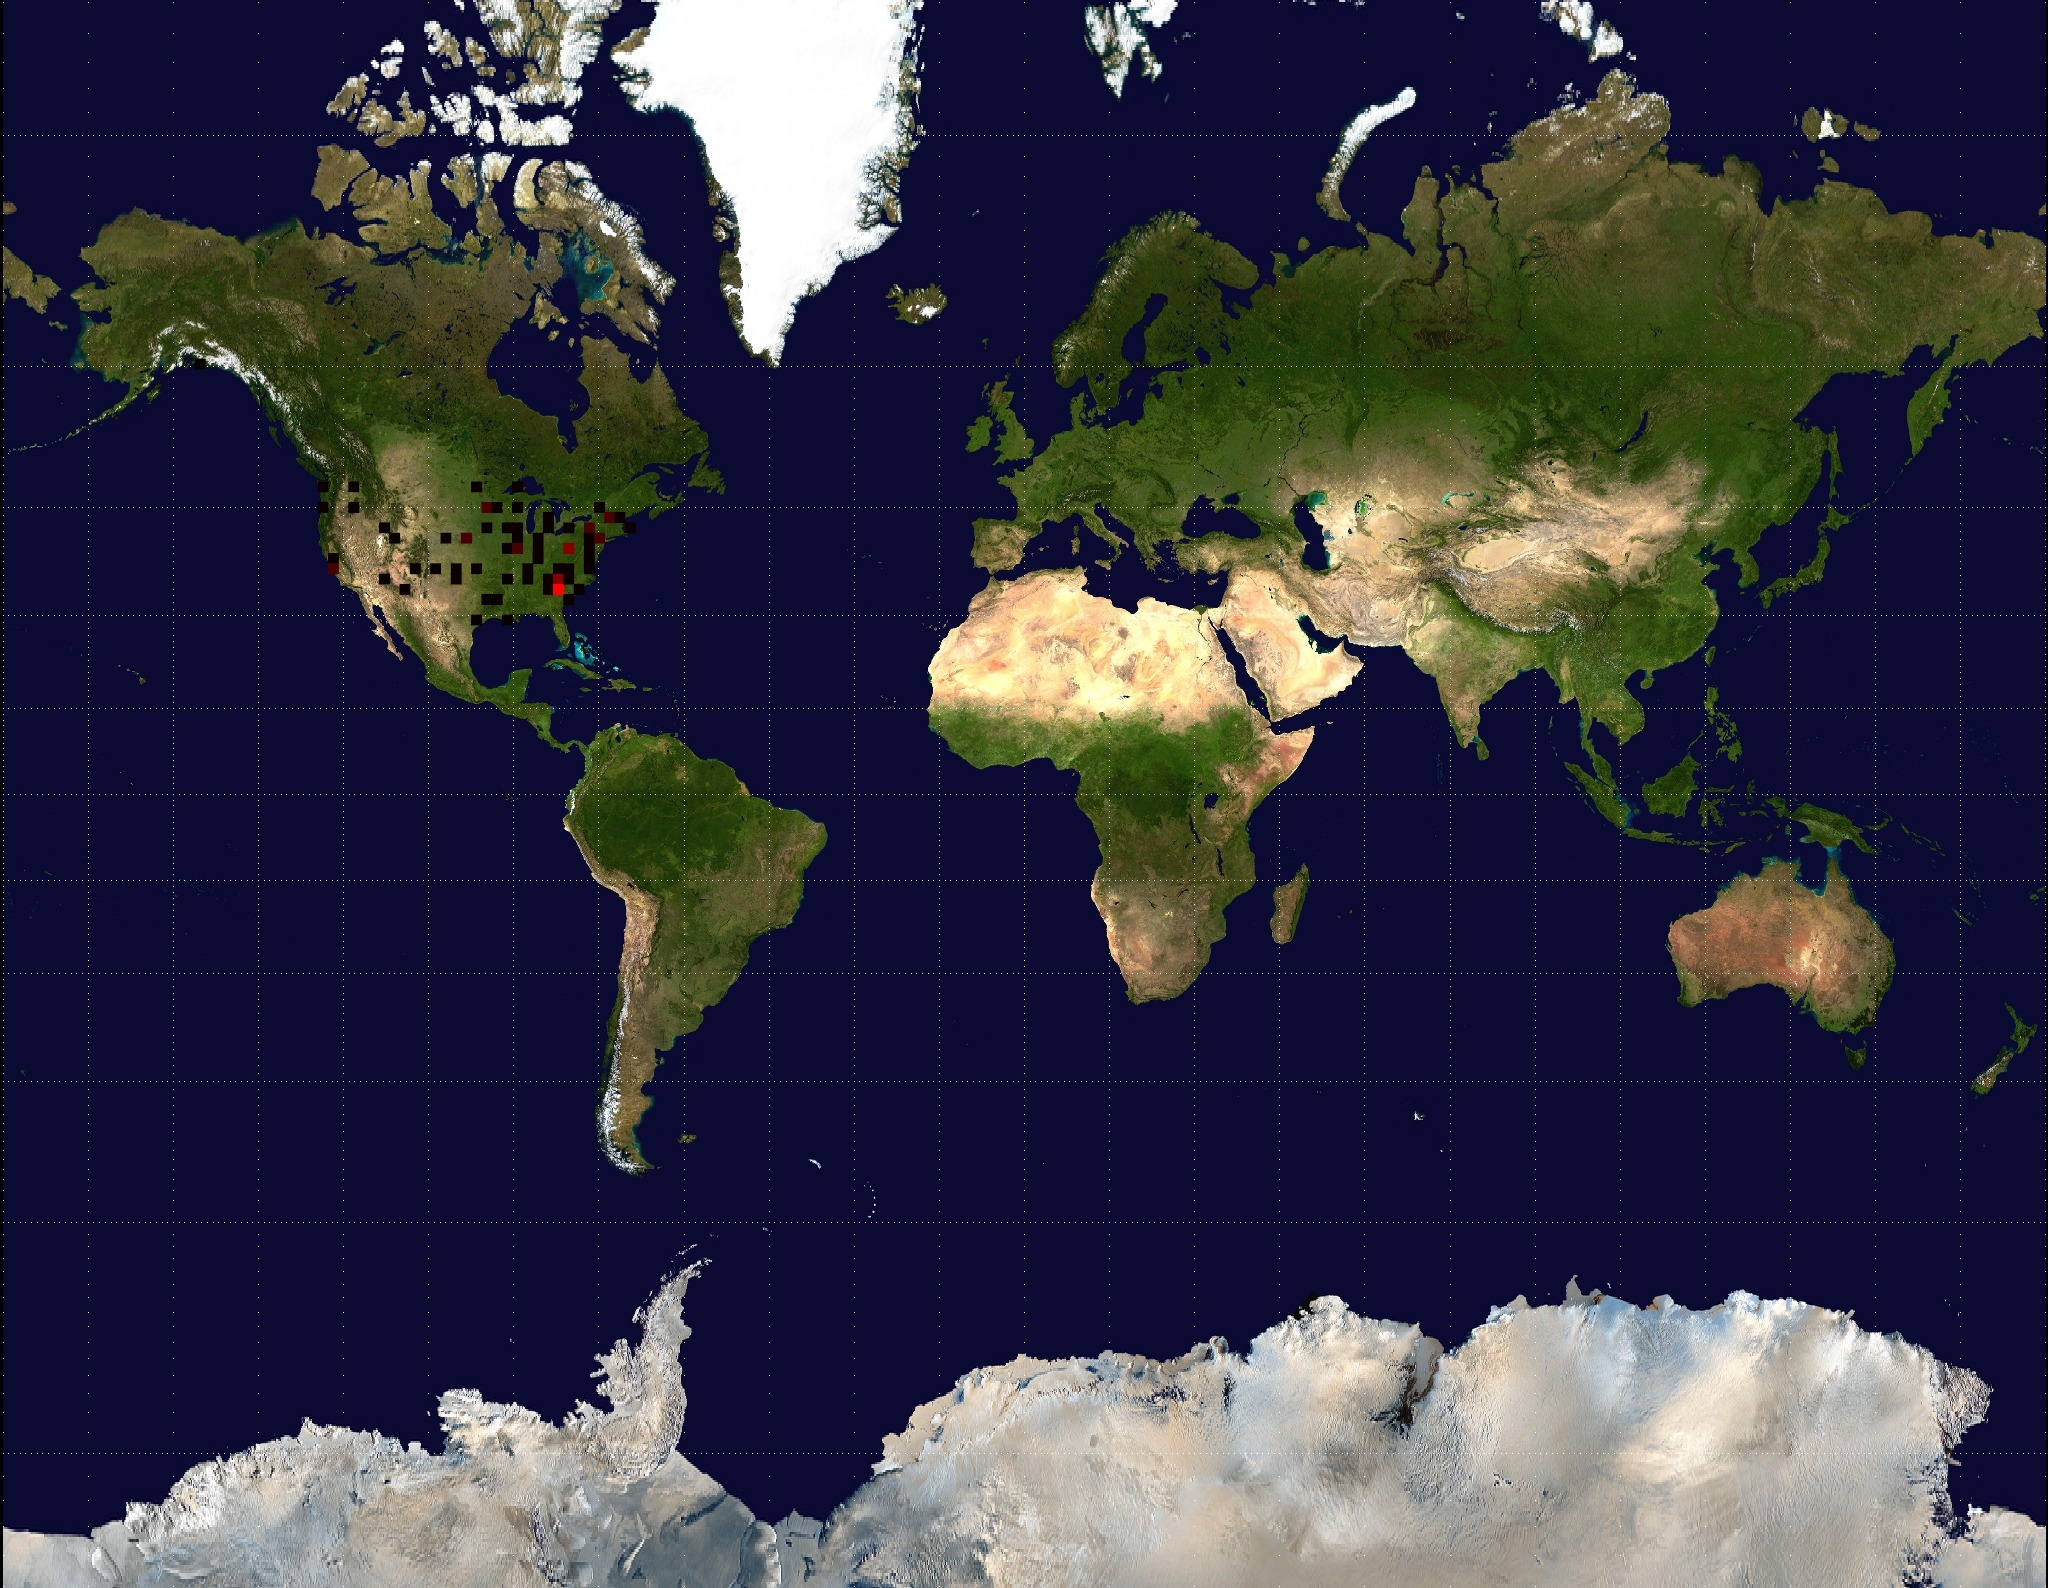
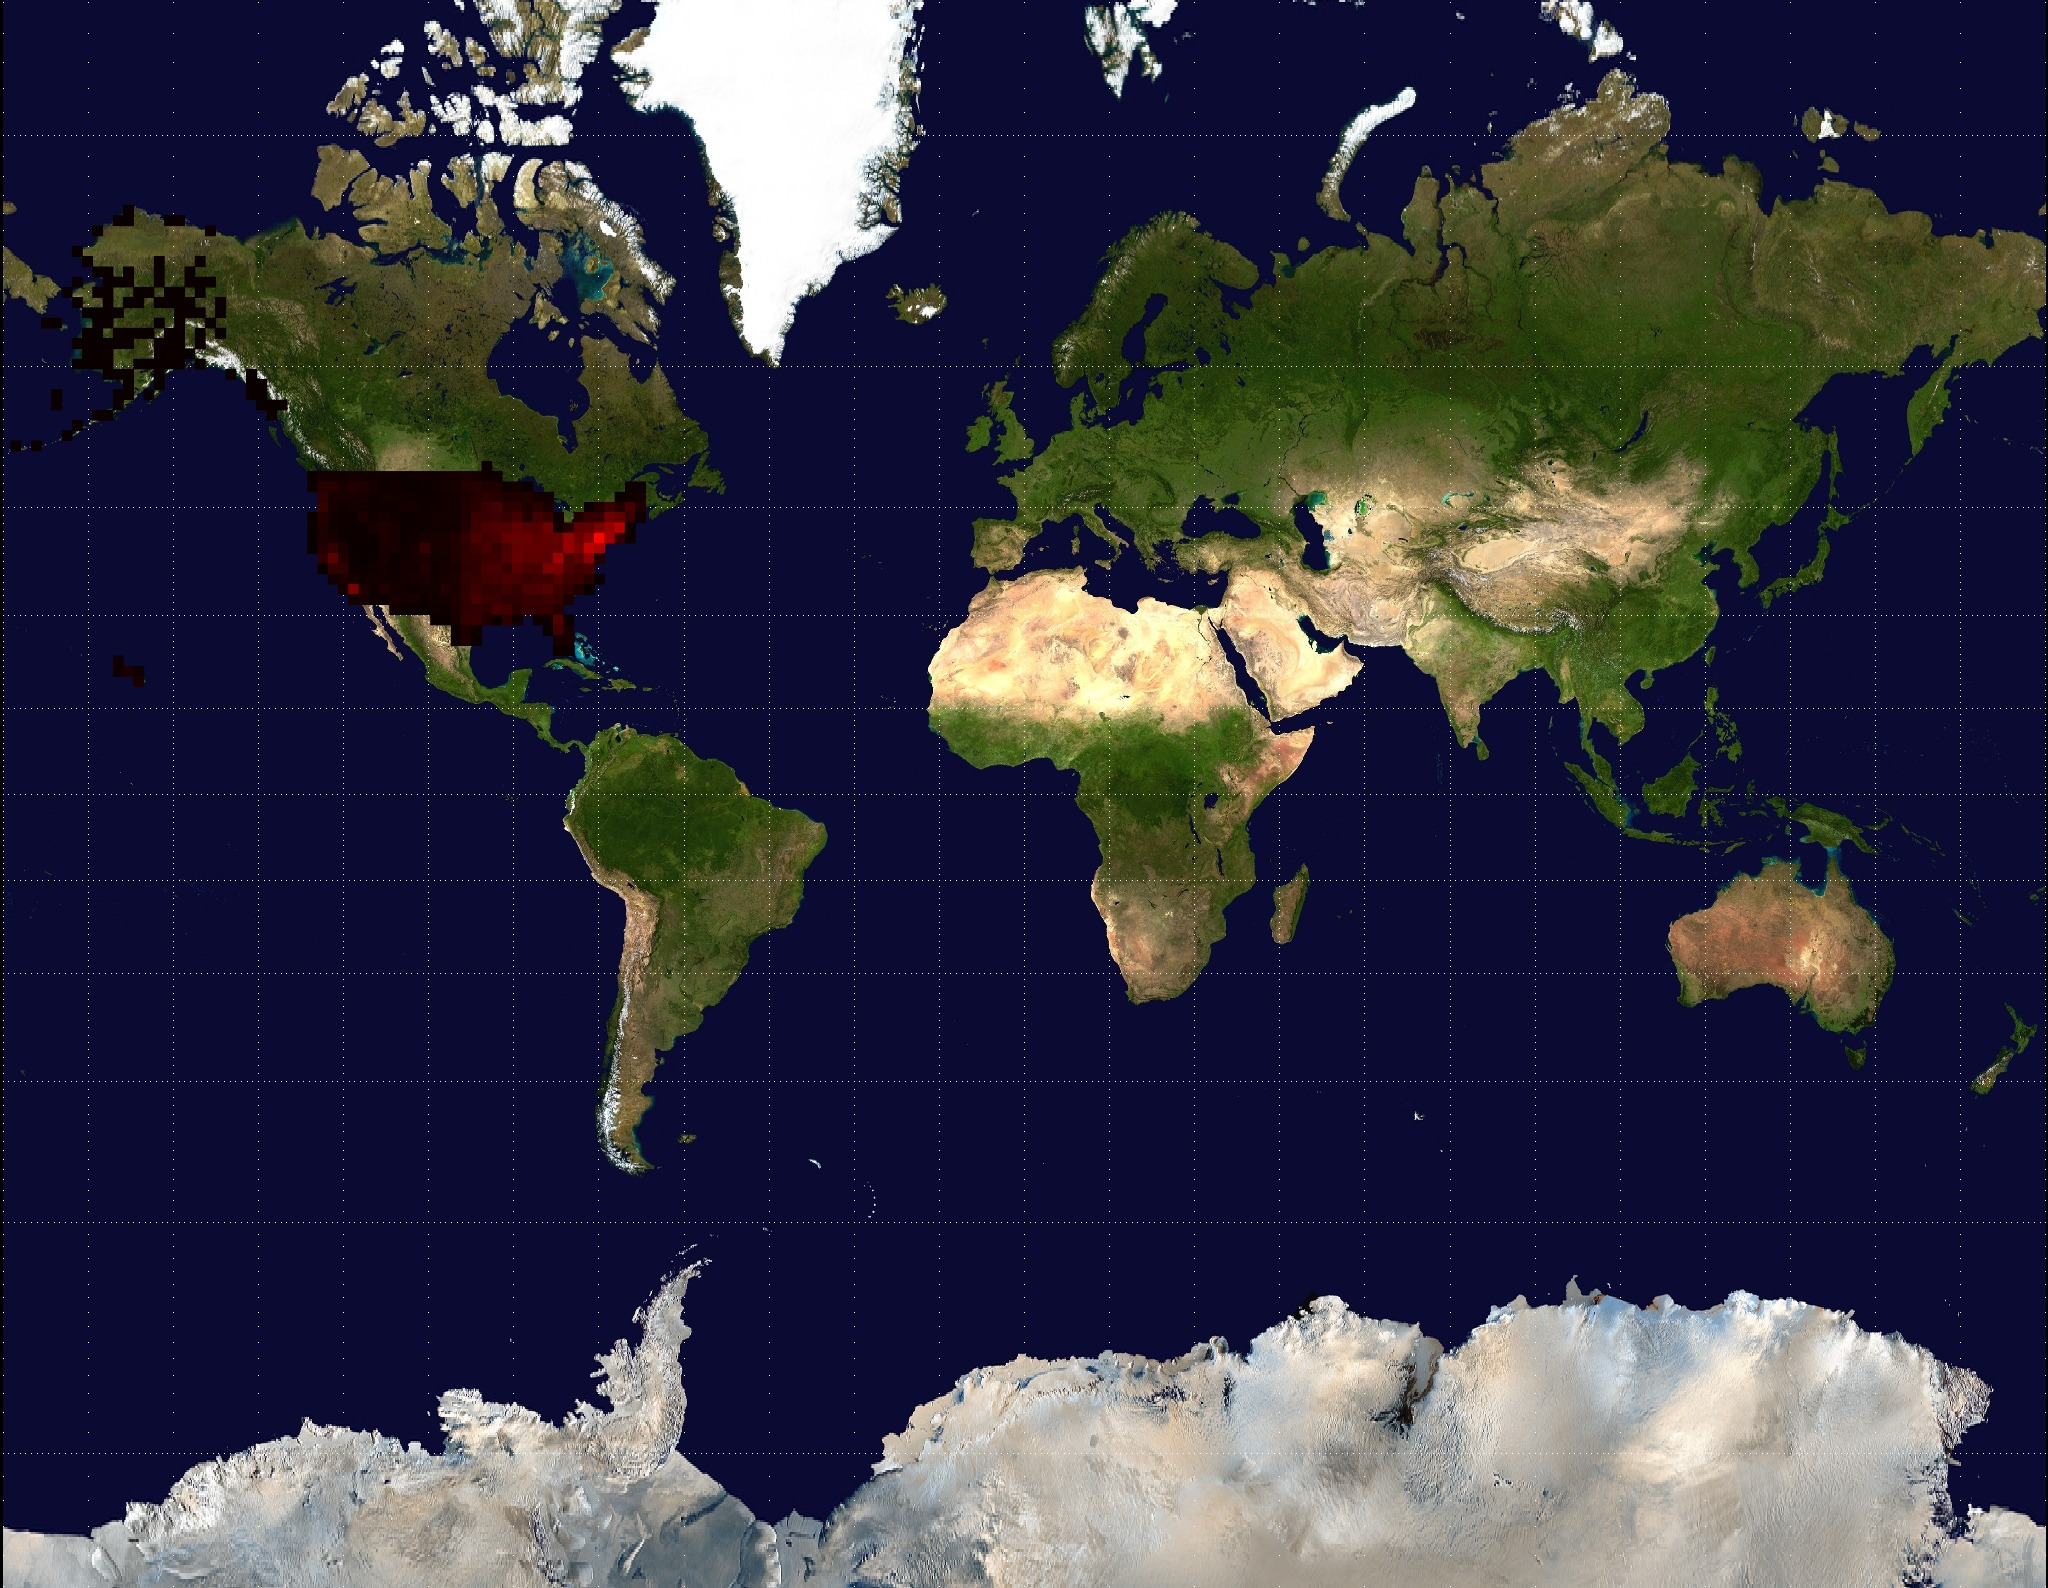
extract most frequent non iphone searches to make into google map

Changed region(s): [[0.125, 0.2777, 0.3125, 0.432], [0.0312, 0.1234, 0.125, 0.2777], [0.125, 0.2469, 0.1562, 0.2777]]

diff --git a/v5/google_map_wip_script.rb b/v5/google_map_wip_script.rb
@@ -1,9 +1,12 @@
 #!/usr/bin/env ruby
+# -*- coding: utf-8 -*-
 
 SCALE_FACTOR = 1e3
 
-def scaled val
-  (val.to_f * SCALE_FACTOR).ceil / SCALE_FACTOR
+class Float
+  def scaled
+    (self.to_f * SCALE_FACTOR).ceil / SCALE_FACTOR
+  end
 end
 
 def gLatLong(lat,long)
@@ -19,42 +22,67 @@ def iphone_lat_long?(lat1,lat2,long1,long2)
   close(lat1,lat2,0.6) && close(long1,long2,0.6)
 end
 
+puts <<EOF
+<!DOCTYPE html PUBLIC "-//W3C//DTD XHTML 1.0 Strict//EN" "http://www.w3.org/TR/xhtml1/DTD/xhtml1-strict.dtd">
+<html xmlns="http://www.w3.org/1999/xhtml" xmlns:v="urn:schemas-microsoft-com:vml">
+  <head>
+    <meta http-equiv="content-type" content="text/html; charset=utf-8"/>
+    <title>Google Maps API Sample</title>
+    <script src="http://maps.google.com/maps?file=api&amp;v=2&amp;sensor=false&amp;key=ABQIAAAA1XbMiDxx_BTCY2_FkPh06RRaGTYH6UMl8mADNa0YKuWNNa8VNxQEerTAUcfkyrr6OwBovxn7TDAH5Q"></script>
+    <script type="text/javascript">
+    
+    function poly(b) {  
+      return new GPolygon([new GLatLng(b[0],b[1]),new GLatLng(b[0],b[3]),new GLatLng(b[2],b[3]),new GLatLng(b[2],b[1]),new GLatLng(b[0],b[1])], "#"+b[4]+"0000",2,1,"#ff0000",0);
+    }
+
+function initialize() {
+  if (GBrowserIsCompatible()) {
+    var map = new GMap2(document.getElementById("map_canvas"));
+    map.enableScrollWheelZoom();
+    map.addControl(new GLargeMapControl());
+EOF
+
+pts = []
+min_freq = max_freq = nil
+
 STDIN.each do |line|
-  line =~ /Parameters.*bounding_box"=>"(.*?)"/
-  lat_longs = $1
-  next unless lat_longs
-  lat1,lat2,long1,long2 = lat_longs.split(',').map{|v|scaled(v)}
+  line.chomp!
+  line =~ /\s+(\d+) (.*)/
+  freq, coords = Math.log($1.to_f), $2
+  lat1,long1,lat2,long2 = coords.split("\t").map{|v|v.to_f.scaled}
+  raise "expected lat/long pairs to NOT be equal [#{line}]" if lat1==lat2 || long1==long2
+  raise "expected lat/long1 to be GREATER thatn lat1/long2 [#{line}]" unless lat1>lat2 && long1>long2
 
-#  printf "map.setCenter(new GLatLng(#{lat_mdpt},#{long_mdpt}), 9);\n"
-
-  lat1,lat2 = lat2,lat1 if lat1 < lat2
-  long1,long2 = long2,long1 if long1 < long2
-
-  lat_mp, long_mp = (lat1+lat2)/2, (long1+long2)/2
-
-# wishing the world WAS flat, the maths would be easier...
-
-  puts "#{lat1} #{long1} #{lat2} #{long2}"
-
-  if (iphone_lat_long?(lat1,lat2,long1,long2) && false)
-    puts "in the pipe, six by six"
-    printf "map.addOverlay(new GPolygon(["
-    printf "#{gLatLong(lat_mp-0.3,long_mp-0.3)},"
-    printf "#{gLatLong(lat_mp-0.3,long_mp+0.3)},"
-    printf "#{gLatLong(lat_mp+0.3,long_mp+0.3)},"
-    printf "#{gLatLong(lat_mp+0.3,long_mp-0.3)},"
-    printf "#{gLatLong(lat_mp-0.3,long_mp-0.3)}"
-    printf "], \"#ff0000\",2,1,\"#ff0000\",0.1));\n"   
-  else    
-    printf "map.addOverlay(new GPolygon(["
-    printf "#{gLatLong(lat1,long1)},"
-    printf "#{gLatLong(lat1,long2)},"
-    printf "#{gLatLong(lat2,long2)},"
-    printf "#{gLatLong(lat2,long1)},"
-    printf "#{gLatLong(lat1,long1)}"
-    printf "], \"#ff0000\",2,1,\"#ff0000\",0.1));\n"
+  if min_freq.nil?
+    min_freq = max_freq = freq
+  else
+    min_freq = freq if freq < min_freq
+    max_freq = freq if freq > max_freq
   end
 
-  2.times { puts }
+  # draw bounding box used in search
+  pts << [lat1,long1,lat2,long2,freq].map(&:scaled)
 end
 
+# rescale freq from current min,max to 22->ff for red border colour
+diff_freq = max_freq - min_freq
+pts.each {|pt| pt[4] = sprintf("%02x",(((pt[4]-min_freq)/diff_freq)*255)) }
+
+# emit bounding boxes
+puts "bs=#{pts.reverse.inspect};"
+
+# write the postamble
+puts <<EOF
+    for(i=0;i<bs.length;i++) {
+      map.addOverlay(poly(bs[i]));
+    }
+    map.setCenter(new GLatLng(0,0), 2);
+  }
+}
+    </script>
+  </head>
+  <body onload="initialize()" onunload="GUnload()" style="font-family: Arial;border: 0 none;">
+    <div id="map_canvas" style="width: 100%; height: 800px"></div>
+  </body>
+</html>
+EOF

diff --git a/v5/non_iphone_searches.rb b/v5/non_iphone_searches.rb
@@ -1,0 +1,18 @@
+#!/usr/bin/env ruby
+
+def close(a,b,x)
+  ((a-b).abs - x).abs < 0.000001
+end
+
+# guessing this is an iphone lat/long 0.6 0.6 apart
+def iphone_lat_long?(lat1,long1, lat2,long2)
+  close(lat1,lat2,0.6) && close(long1,long2,0.6)
+end
+
+STDIN.each do |line|
+  lat1,long1, lat2,long2 = line.split("\t").map(&:to_f)
+  next if iphone_lat_long?(lat1,long1,lat2,long2)
+  lat_mp, long_mp = (lat1+lat2)/2, (long1+long2)/2
+  puts [lat1,long1,lat2,long2].join("\t")
+end
+

diff --git a/v5/lat_longs.rb b/v5/lat_longs.rb
@@ -16,6 +16,7 @@ STDIN.each do |line|
     lat1,lat2,long1,long2 = lat_longs.split(',').map{|v| v.to_f}
     next unless lat1 && lat2 && long1 && long2
     next unless lat1.valid_lat? && lat2.valid_lat? && long1.valid_long? && long2.valid_long?
+    next if lat1==lat2 || long1==long2
     lat1,lat2 = lat2,lat1 if lat1 < lat2
     long1,long2 = long2,long1 if long1 < long2
     puts [lat1,long1,lat2,long2].join("\t")
